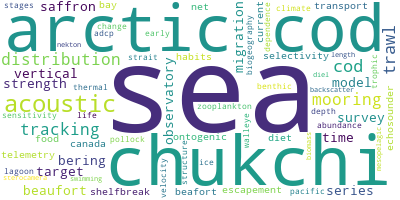
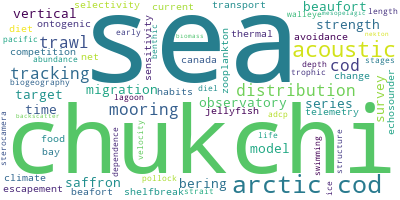
crawford, stats

diff --git a/pacificArctic/Crawford2016PB.md b/pacificArctic/Crawford2016PB.md
@@ -1,0 +1,35 @@
+10/31/18
+## Authors:
+Crawford, Richard E.
+## Title:
+Occurrence of a gelatinous predator (Cyanea capillata) may affect the distribution of Boreogadus saida, a key Arctic prey fish species
+## Keywords:
+arctic cod, competition, avoidance, jellyfish
+## Geographic Coverage
+Canadian High Arctic Archipelago
+## Field Dates:
+05/01/1985 - 09/01/2013
+## Significance:
+This paper presents evidence of jellyfish avoidance by Arctic cod in a shallow bay of the Canadian Arctic Archipelago.  The authors describe observations of partitioning which they attribute primarily to avoidance.
+
+## Notes:
+Pelagic shoals of arctic cod offer opportunistic predators sources to feed quickly in high density prey fields.  
+
+Cyanea capillata (lions mane) are known to prey on larval and juvenile fishes, and it is possible that jellyfish feeding can have large impacts on populations.
+
+Observations are from Resolute Bay (see Geoffrow et al., 2016), with data collected from ice stations and ship surveys using Biosonics (earlier field work) or ES60 (later field work) echosounders.
+
+Jellyfish were identified by their lower TS, but also from cyclical pattern in their TS modulating (as much as -75 to -58), which is attributed to the pulsing of their bell as they swim, as previously studied.  Arctic cod TS varies only a few dB over the course of tracking.
+
+Jellyfish were mostly in warm water near or around the thermocline unless wind mixed throughout the water column, showing a preference for higher salinity water as well.
+
+Arctic cod and jellyfish tended not to share the same depth layer, arctic cod were often associated with the thermo/pycnoline where their prey field (copepods) is most dense.
+
+The separation observed between the two species could be due to nematocysts avoidance  or competition.  Both gelatinous organisms and arctic cod eat copepods in Resolute Bay (though this is not considered to be a primary driver).  Fish shoaled and moved back and forth, if avoidance was not a component of the separation, the fish would have spent more time in the high copepod-density layers regardless of jellyfish presence
+
+Water column conditions may contribute to habitat partitioning  by constraining planktonic drift nearshore and allowing the A. cod to be more mobile with lower encounter rates in the shallow areas.  
+
+
+Concluding hypotheses
+* Nematocyst avoidance is the primary driver of spatial separation between jellyfish and fishes
+* If the abundance of stinging jellyfish increases with warming waters, there will be localized/small-scale impacts on arctic cod distribution

diff --git a/README.md b/README.md
@@ -29,6 +29,8 @@ Notes (author, year, journal in file header) on readings.  Top of each note docu
      * They look at the summer diet of arctic cod across multiple age classes from opportunistic samples throughout the Chukchi and Bering Sea.  Along a north-south gradient in the ECS, copepods dominate diets at higher latitudes, euphausiids at lower latitudes.  Larger fish have a more diverse diet of larger prey (decapods, fishes).  Arctic cod are highly opportunistic. 
 * [CorlettPickart2017PO - The Chukchi slope current](https://github.com/leviner/ReadingList/tree/master/pacificArctic/CorlettPickart2017PO.md) 
      * The authors describe the observation of a westward flow that advects a significant portion of Pacific-origin water, predominantly winter water, westward along the slope, as well as a weaker shelfbreak jet moving shallower water to the east. 
+* [Crawford2016PB - Occurrence of a gelatinous predator (Cyanea capillata) may affect the distribution of Boreogadus saida, a key Arctic prey fish species](https://github.com/leviner/ReadingList/tree/master/pacificArctic/Crawford2016PB.md) 
+     * This paper presents evidence of jellyfish avoidance by Arctic cod in a shallow bay of the Canadian Arctic Archipelago.  The authors describe observations of partitioning which they attribute primarily to avoidance. 
 * [DeRobertis2015DSRII - Species and size selectivity of two midwater trawls used in an acoustic survey of the Alaska Arctic](https://github.com/leviner/ReadingList/tree/master/pacificArctic/DeRobertis2015DSRII.md) 
      * De Robertis et al. conducted a trawl selectivity experiment using recapture nets on a modified-Marinovich trawl to asses the species- and size-specific selectivity.  There is significant escapement, even for the most abundant species, and this analysis is required to properly calculate biomass/abundance estimates for juvenile Arctic cod. 
 * [Geoffroy2016PB - Vertical segregation of age-0 and age-1+ polar cod (Boreogadus saida) over the annual cycle in the Canadian Beaufort Sea](https://github.com/leviner/ReadingList/tree/master/pacificArctic/Geoffroy2016PB.md) 

diff --git a/pacificArctic/Whitehouse2014PB.md b/pacificArctic/Whitehouse2014PB.md
@@ -1,4 +1,4 @@
-10/15/18
+10/31/18
 ## Authors:
 Whitehouse, G. Andy and Aydin, Kerim and Essington, Timothy E. and Hunt, George L.
 ## Title:
